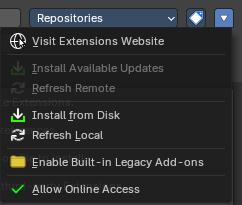
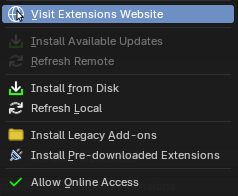
Preferences > Extensions: Legacy Add-ons or Pre-downloaded Extensions (#1354)

diff --git a/docs2/content/editors/preferences.md b/docs2/content/editors/preferences.md
@@ -1022,7 +1022,7 @@ Select if the repository is a system directory, or a user directory. Normally th
 | ------------------------------ | ---------------------------------------------------------------------------------------------------------------------------------------------------------------------------------------------------------------------------------------------------------------------------------------------------------------------------------------------------------------------------------------- |
 | Visit extensions website | Opens the Blender extension page in a web browser. · **Install Available Updates**: Install all available updates. Note that this feature requires to allow online access. · **Refresh Remote**: Check if updates for extensions are available for the online extensions. Note that this feature requires to allow online access. Also note that this feature works on ALL repositories. |
 | Install from Disk | You can optionally also install addons and extensions from a disk location using the install from disk operators. · **Refresh Local**: Refresh local extensions to apply changes. Note that this feature works on ALL repositories. |
-| Enable Built-in Legacy Add-ons | Blender by default uses only online add-ons. But Bforartists comes with some add-ons that are vital to run the software. And these offline add-ons must be on so that Bforartists is fully functional. By Default these add-ons are already enabled. So no action is required. But if you by accident disable a Bforartists core add-on, this is the place to re-enable them all. |
+| Legacy Add-ons / Pre-downloaded Extensions | Install or remove the add-ons that ship with Bforartists, as classic add-ons or as extensions. See *Working offline* below. |
 
 
 ### Allow Online Access
@@ -1036,6 +1036,20 @@ Allow internet access to download extensions. Bforartists may access configured 
 An explicit dialog suggests that to access Extensions, you must allow internet access. This is so you can download and work with the online Blender extensions repository.
 
 To install extensions from the internet, internet access is required. You can adjust this later from the “System” preferences in the Network panel. Once you have allowed online access, you will access the default Blender extensions website with free addons and themes.
+
+#### Working offline: Legacy Add-ons or Pre-downloaded Extensions
+
+Bforartists ships with a big set of add-ons, so you can use them without ever going online. You get them in one of two forms, and you choose with the two buttons under **Continue Offline / Allow Online Access**.
+
+**Install Legacy Add-ons** gives you the classic built-in add-ons. They show up in the Add-ons tab, just like before.
+
+**Install Pre-downloaded Extensions** gives you the same tools as Extensions, copied from your Bforartists folder. Pick this one if you plan to go online later: they then update like any other extension.
+
+Once installed, the button turns into **Remove**, so you can undo your choice. Removing the Pre-downloaded Extensions only removes the ones that came with Bforartists. Extensions you installed yourself from the internet stay.
+
+> **Tip:** Use one or the other, not both. Install Legacy Add-ons is greyed out while the Pre-downloaded Extensions are installed. If you switch, disable a Legacy Add-on before you enable its Extension.
+
+You find the same buttons in the **Missing Built-in Add-ons** panel and in the Extension Settings menu, so you can change your mind any time.
 
 #### Continue Offline
 
@@ -1060,12 +1074,6 @@ Also that you can also install extensions from disk or drag and drop extensions 
 In case you have added an invalid online repository you might be faced with a warning. You might want to fix the invalid extension repository then.
 
 > **Note:** Bforartists doesn't host extensions. This URL was just added for demonstration purposes.
-
-
-| Entry | What it does |
-| --------------------------------------------- | ------------------------------------------------------------------------------------------------------------------------------------------------------------------------------------------------------------------------------------------------------------------------------------------------------------------------------------------------------------------------------------------------------------------------------------ |
-| Enable/Remove Built-in Legacy Add-ons | Bforartists comes with some core add-ons that are vital to run the software, but this also alternatively ships with legacy Built-In addons. These addons are opt-in and have Extension equivalents also included offline. Core add-ons must be on so that Bforartists is fully functional. Built-In Legacy addons are optionally provided for complete offline extended usability. |
-| Install Pre-downlaoded Extensions Equivalents | If you have enabled legacy addons, you also have the options to remove and alternatively install the Extensions equivalents while remaining offline. This will copy the extensions to your user settings, and if you want to continue updating them when being online, they will then be available locally with online access to their repository for future updates. This helps to you to migrate your legacy addons to Extensions. |
 
 
 ## Add-ons
